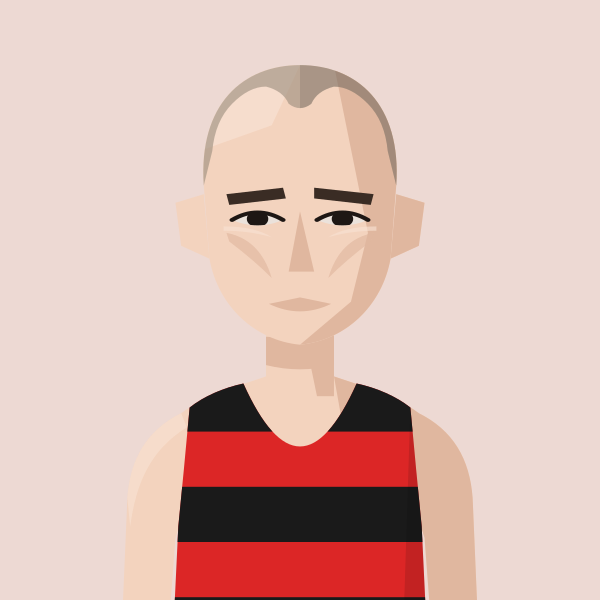
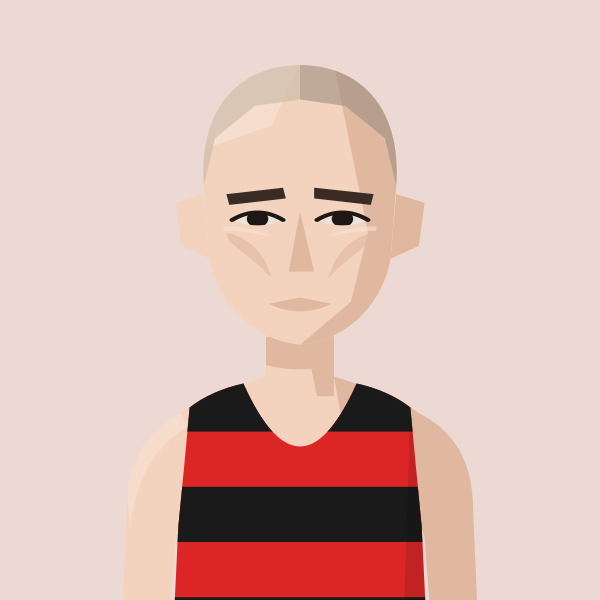
Mike Cummings: full hairline, skin-short buzz
Claude-Session: https://claude.ai/code/session_01MgmDWhFqnSSnP4iBLKXUZC

Changed region(s): [[0.33, 0.09, 0.63, 0.3], [0.63, 0.21, 0.66, 0.24]]

diff --git a/files/index.html b/files/index.html
@@ -583,7 +583,7 @@ return m;})();
 const portraitFile=(name,club)=>{const k=normalizeNameForCompare(name||'').replace(/\s*\(([^)]*)\)$/,(m,c)=>CLUBS[c.toUpperCase()]?'':m);const a=PORTRAITS[k];if(a&&a.club===club)return a.file;const b=PORTRAITS[k+'@'+club];return b?b.file:null;};
 // Athlete header figure: superstar portrait if we have one, else a grey runner in the club vest, else the plain vest icon
 // Changes whenever any portrait changes (set by tools/build_og.py), so browsers fetch fresh images instead of old cached ones
-const PORTRAIT_V='909c6dd1';
+const PORTRAIT_V='818bb8f4';
 const AthletePortrait=({name,club,w,fill,onClick})=>{const[failed,setFailed]=useState(false);const file=portraitFile(name,club);const src=file?`/portraits/athletes/${file}.svg?v=${PORTRAIT_V}`:PORTRAIT_CLUBS.has(club)?`/portraits/clubs/${club.replace(/\//g,'').replace(/&/g,'and')}.svg?v=${PORTRAIT_V}`:null;if(!src||failed)return<div onClick={onClick} className={onClick?'cursor-pointer':''}><ClubShield club={club} size={w}/></div>;const h=Math.round(w*148/126),ih=Math.round(w*1.4);if(fill)return<div onClick={onClick} className="cursor-pointer" style={{alignSelf:'stretch',minHeight:h,aspectRatio:'126 / 148',flexShrink:0,position:'relative',borderRadius:4,overflow:'hidden'}}><img src={src} alt={file?`Portrait of ${name.replace(/\s*\([^)]*\)$/,'')}`:`Runner in ${CLUBS[club]?.name||club} vest`} style={{position:'absolute',top:0,left:0,display:'block',width:'100%',height:'auto'}} onError={()=>setFailed(true)}/></div>;return<div style={{width:w,height:h,borderRadius:4,overflow:'hidden',flexShrink:0}}><img src={src} alt={file?`Portrait of ${name.replace(/\s*\([^)]*\)$/,'')}`:`Runner in ${CLUBS[club]?.name||club} vest`} width={w} height={ih} style={{display:'block',width:w,height:ih}} onError={()=>setFailed(true)}/></div>;};
 const getClubVestSvg=(club)=>{
   const p="M3 0 L6 0 Q7 4 10 5 Q13 4 14 0 L17 0 L17 20 L3 20 Z";

diff --git a/tools/gen_portraits.py b/tools/gen_portraits.py
@@ -794,4 +794,4 @@ save("phil-woodford-smith", figure("KEN", skin=1, hair="slick", hair_colour="#24
 save("james-ewing", figure("KEN", skin=3, hair="crop", hair_colour="#241A15", gaunt=True))
 save("cameron-dockerill", figure("KEN", skin=1, hair="quiff", hair_colour="#3A2820"))
 save("simon-wurr", figure("THH", skin=1, hair="tuftrecede", hair_colour="#2E211B", greying="sides", gaunt=True))
-save("mike-cummings", figure("HHH", skin=1, hair="buzzrecede", hair_colour="#9A8C7C", gaunt=True))
+save("mike-cummings", figure("HHH", skin=1, hair="buzz", hair_colour="#C8B8A4", gaunt=True))
